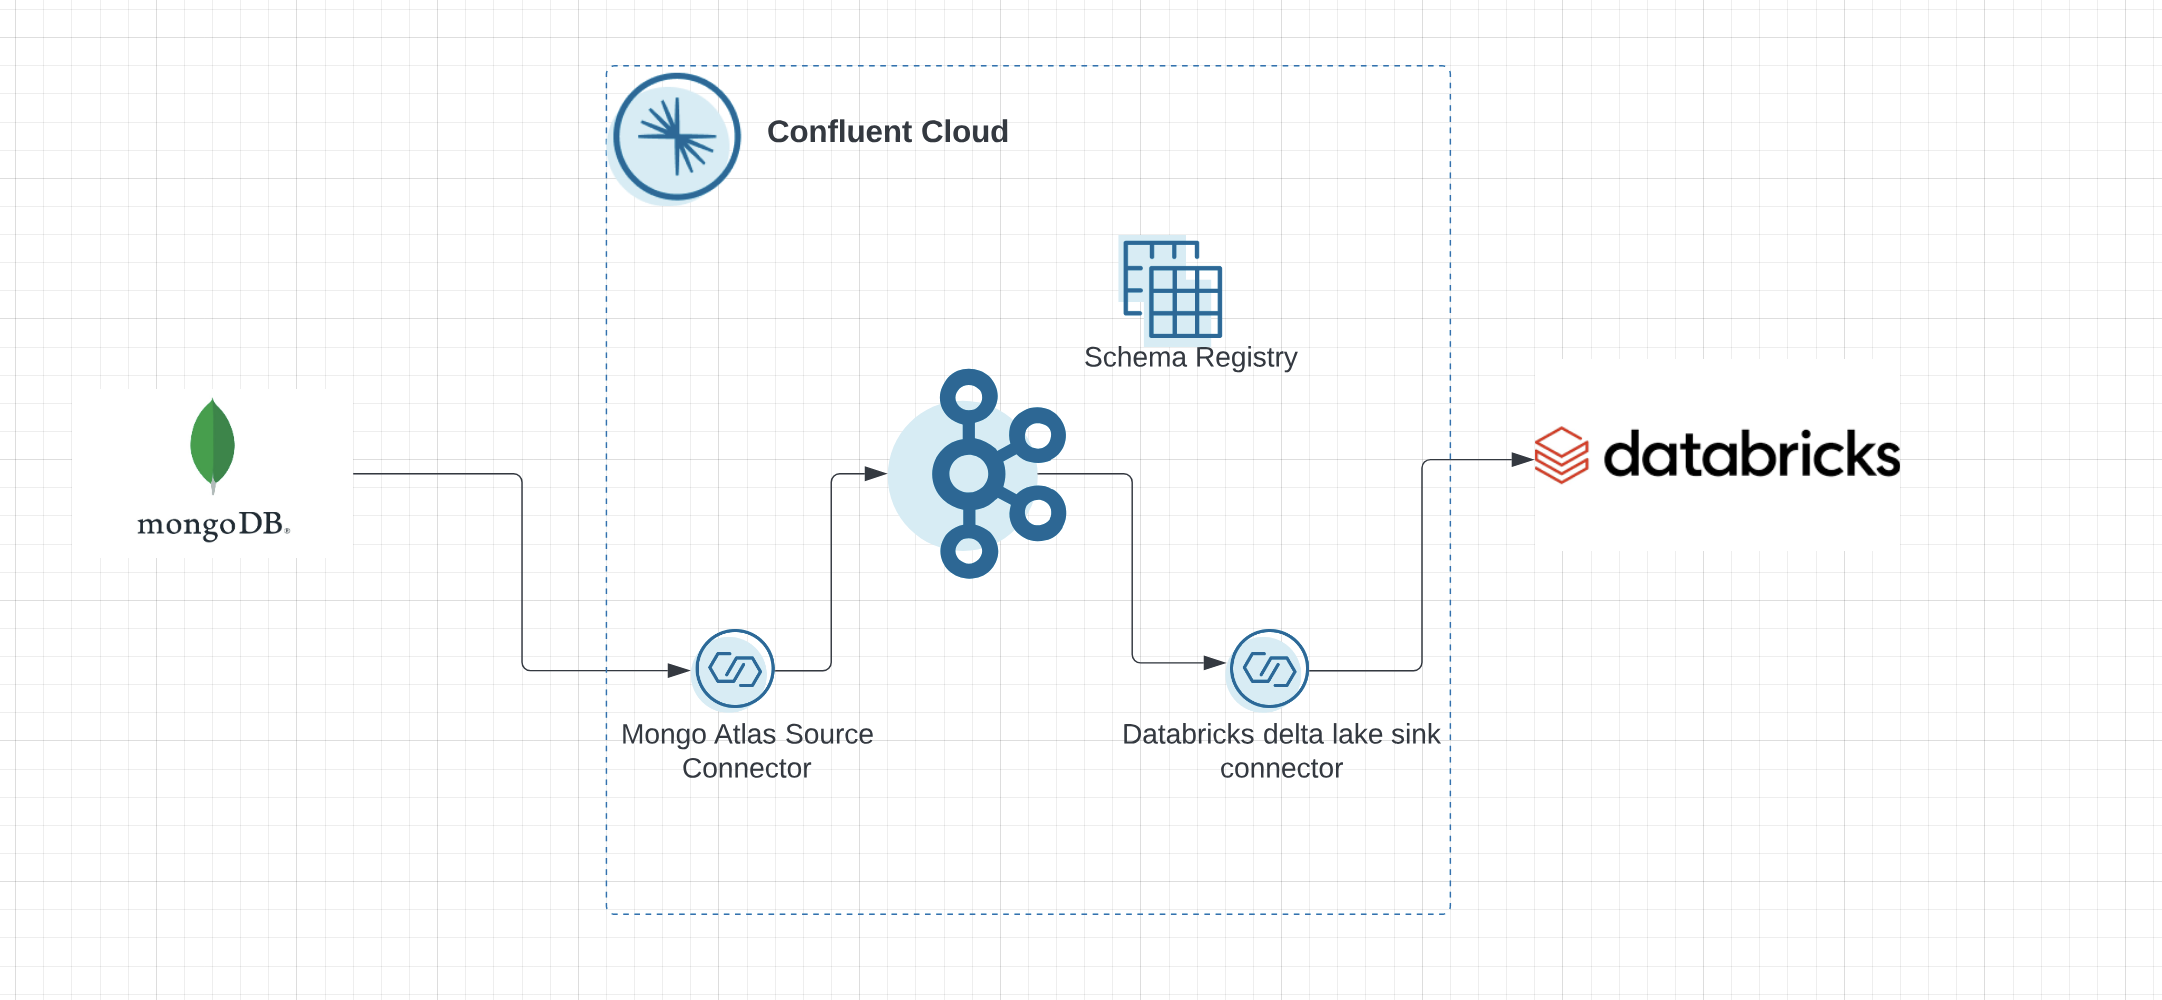
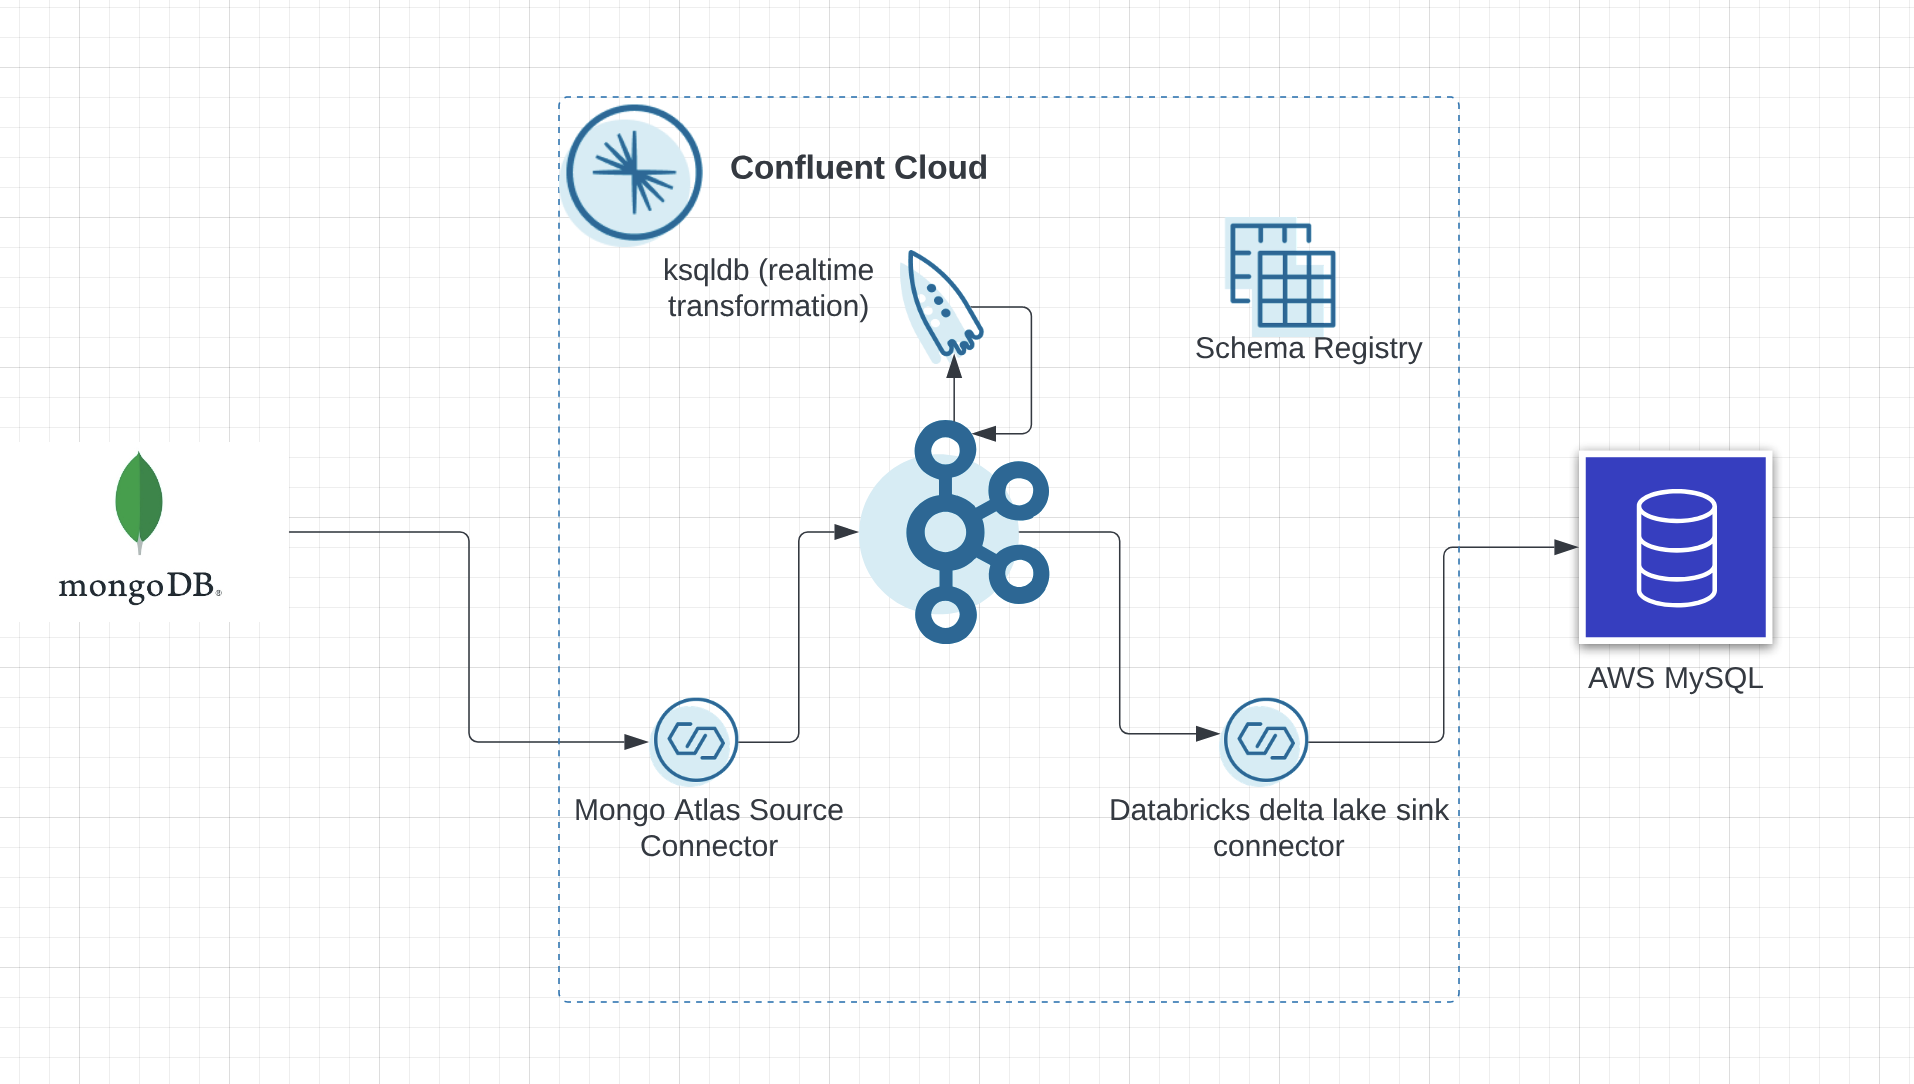
Adding MySQL

diff --git a/README.md b/README.md
@@ -11,7 +11,7 @@ The main issue was that their team lacked the expertise required to maintain the
 
 In addition to this, their previous implementation of Kafka prevented them from innovating further with data streaming, while also taking up a substantial proportion of their operating budget. In their previous setup on Azure HDInsights (shown below), they lacked managed connectors – not only did this increase the maintenance burden on the infrastructure team, but also severely limited the possibility to sync data to other datastores used in the organization. On top of this, their previous platform didn’t offer any form of stream processing, making it more difficult to use their data streams for real-time use cases. Lastly, as Azure HDInsights is Hadoop-based, the team had to stand up, run, and pay for an entire Hadoop cluster in order to use Kafka – an extra burden and cost.
 
-<b> This demo walks you through a streaming data pipeline where data originates from Mongodb , undergoes real-time processing in Confluent Cloud and gets sent to Databricks. </b>
+<b> This demo walks you through a streaming data pipeline where data originates from Mongodb , undergoes real-time processing in Confluent Cloud and gets sent to AWS MySQL. </b>
 
 ## Data Walkthrough
 
@@ -51,9 +51,9 @@ In order to successfully complete this demo you need to install few tools before
 
 1. Create an API key pair so Terraform can create resources in the Atlas cluster. Follow the instructions [here](https://registry.terraform.io/providers/mongodb/mongodbatlas/latest/docs#configure-atlas-programmatic-access).
 
-### Databricks
+### AWS
 
-1. Sign up for a free Databricks account [here](https://www.databricks.com/).
+1. Sign up for a free AWS account [here](https://aws.amazon.com/).
 
 ## Setup
 
@@ -65,6 +65,7 @@ In order to successfully complete this demo you need to install few tools before
    2. Confluent Basic Cluster 
    3. Mongodb source connector
    4. Service accounts
+   5. AWS MySQL
 
 1. Clone and enter this repository.
 
@@ -109,7 +110,7 @@ In order to successfully complete this demo you need to install few tools before
    <img src="images/load_sample_dataset.png" width =100% heigth=100%>
    </div> 
 
-Hurray! Mongodb data is offloaded to Confluent topic. Thanks to Mongo Atlas Source Connector. Now let's setup Databricks Sink Connector.
+Hurray! Mongodb data is offloaded to Confluent topic. Thanks to Mongo Atlas Source Connector. Now let's setup MySQL Sink Connector.
 
 ---
 ## Enrich Data Streams with ksqlDB
@@ -131,12 +132,12 @@ If you’re interested in learning more about ksqlDB and the differences between
 
    If you use the default value of `latest`, then ksqlDB will read form the tail of the topics rather than the beginning, which means streams and tables won't have all the data you think they should.
 
-3. Create a ksqlDB stream from `sales.sample_supplies.sales` topic.
+3. Create a ksqlDB stream from `demo.sample_supplies.sales` topic.
 
    ```
    CREATE STREAM orders_raw 
    WITH(
-   KAFKA_TOPIC='sales.sample_supplies.sales',
+   KAFKA_TOPIC='demo.sample_supplies.sales',
    VALUE_FORMAT='AVRO'
    );
    ```
@@ -159,7 +160,7 @@ If you’re interested in learning more about ksqlDB and the differences between
 5. Create `total_count_order_per_storelocation_per_item` table based on the `orders_filtered` stream you just created. The table is updated in real-time every time an order is placed. This table shows number of orders of a particular item from a particular store location.
 
    ```
-   CREATE Table total_count_order_per_storelocation_per_item with (kafka_topic='total_count_order_per_storelocation_per_item_table') as
+   CREATE Table total_count_order_per_storelocation_per_item with (kafka_topic='total_count_order_per_storelocation_per_item_table',value_format='AVRO',key_format='AVRO') as
    SELECT concat(storelocation ,'_',item->name) as unique_key,
          LATEST_BY_OFFSET(storelocation) as store_location,
          LATEST_BY_OFFSET(item->name) as item_ordered,
@@ -167,7 +168,7 @@ If you’re interested in learning more about ksqlDB and the differences between
    FROM orders_filtered
    where item->name is not null
    GROUP BY concat(storelocation ,'_',item->name)
-   EMIT CHANGES;
+   EMIT CHANGES;;
    ```
 
 6. Use the following statement to query `total_count_order_per_storelocation_per_item` table to ensure it's being populated correctly.
@@ -183,17 +184,17 @@ If you’re interested in learning more about ksqlDB and the differences between
 
 ---
 
-## Connect Databricks Sink to Confluent Cloud
+## Connect MySQL Sink to Confluent Cloud
 
-You can create the Databricks Sink connector either through CLI or Confluent Cloud web UI.
+You can create the MySQL Sink connector either through CLI or Confluent Cloud web UI.
 
 <details>
     <summary><b>CLI</b></summary>
 
-1. Run the following command to create the Databricks Sink connector.
+1. Run the following command to create the MySQL Sink connector.
 
    ```bash
-   confluent connect cluster create --config-file confluent/actual_databricks_sink.json
+   confluent connect cluster create --config-file confluent/connect_config.json
    ```
 
 </details>
@@ -203,15 +204,15 @@ You can create the Databricks Sink connector either through CLI or Confluent Clo
     <summary><b>Confluent Cloud Web UI</b></summary>
 
 1. On the navigation menu, select **Connectors** and **+ Add connector**.
-1. In the search bar search for **Databricks** and select the **Databricks delta lake Sink** which is a fully-managed connector.
-1. Create a new Databricks delta lake Sink connector and complete the required fields using `actual_databricks_sink.json` file.
+1. In the search bar search for **MySQL** and select the **MySQL Sink** which is a fully-managed connector.
+1. Create a new MySQL Sink connector and complete the required fields.
 
 </details>
 <br>
 
-Once the connector is in **Running** state navigate to Databricks page and verify messages are showing up correctly.
+Once the connector is in **Running** state connect to MySQL and verify messages are showing up correctly.
 
-Refer to our [documentation](https://docs.confluent.io/cloud/current/connectors/cc-databricks-delta-lake-sink/cc-databricks-delta-lake-sink.html) for detailed instructions about this connector.
+Refer to our [documentation](https://docs.confluent.io/cloud/current/connectors/cc-mysql-sink.html) for detailed instructions about this connector.
 
 ## Confluent Cloud Stream Governance
 
@@ -230,16 +231,13 @@ Confluent offers data governance tools such as Stream Quality, Stream Catalog, a
 ---
 ## CONGRATULATIONS
 
-Congratulations on building your streaming data pipelines between cloud databases and cloud data warehouses for same-day delivery use case in Confluent Cloud!
+Congratulations on building your streaming data pipelines between cloud databases and cloud data warehouses for same-day delivery use case in Confluent Cloud! Your complete pipeline should resemble the following one.
+![Alt Text](images/stream-lineage.gif)
 
 
 # Teardown
 
 You want to delete any resources that were created during the demo so you don't incur additional charges.
-
-   ```
-   Delete your ksqldb cluster before running terraform destroy.
-   ```
 
    ```bash
    terraform destroy
@@ -249,4 +247,4 @@ You want to delete any resources that were created during the demo so you don't 
 
 1. Peering Connections in Confluent Cloud [doc](https://docs.confluent.io/cloud/current/networking/peering/index.html)
 2. MongoDB Atlas Sink Connector for Confluent Cloud [doc](https://docs.confluent.io/cloud/current/connectors/cc-mongo-db-sink.html)
-3. Databricks deltalake [page](https://docs.confluent.io/cloud/current/connectors/cc-databricks-delta-lake-sink/cc-databricks-delta-lake-sink.html) 
+3. AWS MySQL Sink [page](https://docs.confluent.io/cloud/current/connectors/cc-mysql-sink.html) 
